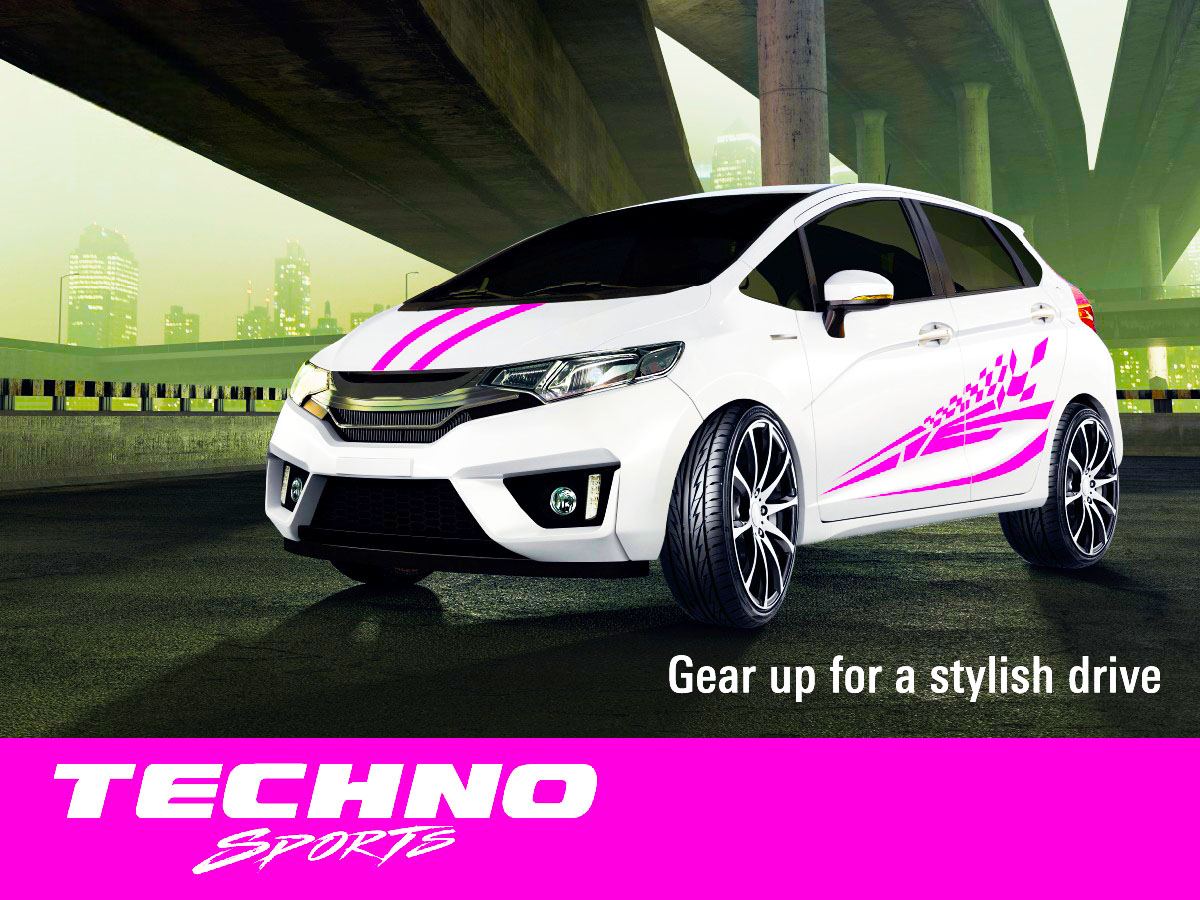
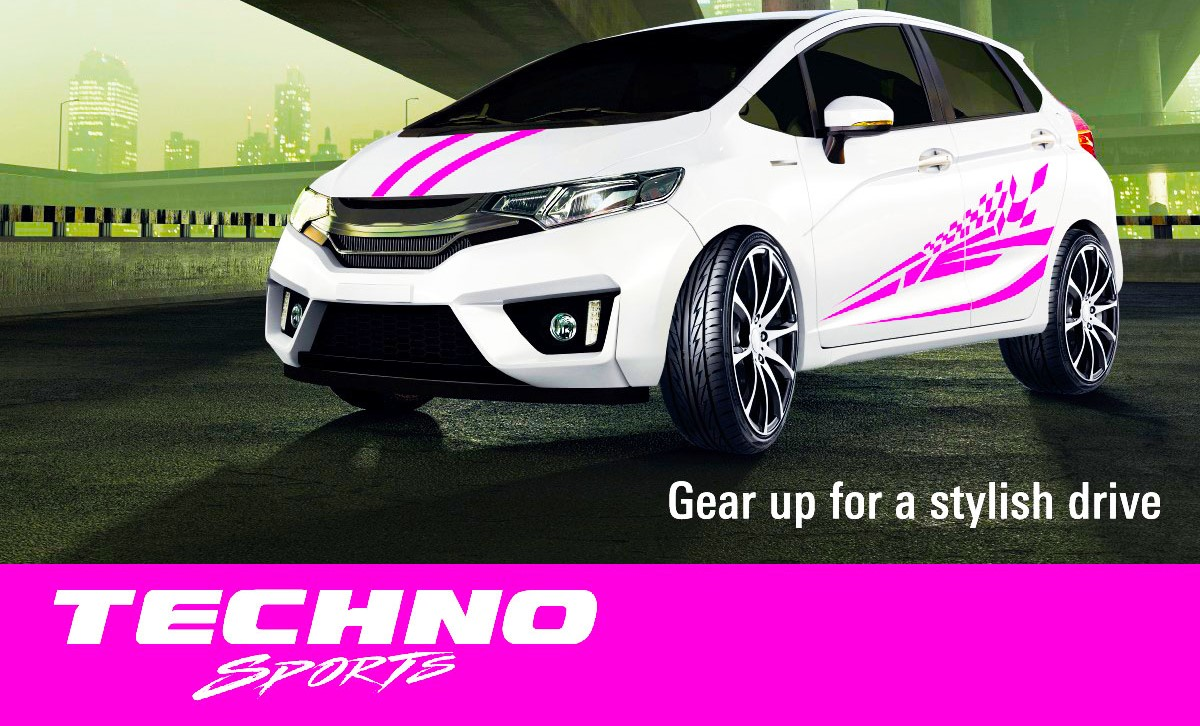
kkk

diff --git a/index.html b/index.html
@@ -211,45 +211,49 @@ padding: 0;
     
     
     <!-- Carousel Start -->
-    <div class="container my-5">
-        <div id="carouselProfessional" class="carousel slide carousel-fade" data-bs-ride="carousel" style="margin-left: -5%; margin-right: -7.9%; height: 100%; margin-top: -7%;">
+    <div class="container-fluid p-0 my-2">
+      <div id="carouselProfessional" class="carousel slide carousel-fade" data-bs-ride="carousel">
           <!-- Slides -->
           <div class="carousel-inner">
-            <!-- Slide 1 -->
-            <div class="carousel-item active">
-              <img src="img/1.jpeg" class="d-block w-100" alt="Slide 1">
-            </div>
-      
-            <!-- Slide 2 -->
-            <div class="carousel-item">
-              <img src="img/2.jpg" class="d-block w-100" alt="Slide 2">
-            </div>
-      
-            <!-- Slide 3 -->
-            <div class="carousel-item">
-              <img src="img/3.jpg" class="d-block w-100" alt="Slide 3">
-            </div>
-            <div class="carousel-item">
-                <img src="img/4.jpeg" class="d-block w-100" alt="Slide 3">
+              <!-- Slide 1 -->
+              <div class="carousel-item active">
+                  <img src="img/1.jpeg" class="d-block w-100" alt="Slide 1">
               </div>
-            <!-- Additional Slides -->
-            <div class="carousel-item">
-              <img src="img/5.jpg" class="d-block w-100" alt="Slide 4">
-            </div>
-           
+  
+              <!-- Slide 2 -->
+              <div class="carousel-item">
+                  <img src="img/2.jpg" class="d-block w-100" alt="Slide 2">
+              </div>
+  
+              <!-- Slide 3 -->
+              <div class="carousel-item">
+                  <img src="img/3.jpg" class="d-block w-100" alt="Slide 3">
+              </div>
+  
+              <!-- Slide 4 -->
+              <div class="carousel-item">
+                  <img src="img/4.jpeg" class="d-block w-100" alt="Slide 4">
+              </div>
+  
+              <!-- Slide 5 -->
+              <div class="carousel-item">
+                  <img src="img/5.jpg" class="d-block w-100" alt="Slide 5">
+              </div>
           </div>
-      
+  
           <!-- Controls -->
           <button class="carousel-control-prev" type="button" data-bs-target="#carouselProfessional" data-bs-slide="prev">
-            <span class="carousel-control-prev-icon" aria-hidden="true"></span>
-            <span class="visually-hidden">Previous</span>
+              <span class="carousel-control-prev-icon" aria-hidden="true"></span>
+              <span class="visually-hidden">Previous</span>
           </button>
           <button class="carousel-control-next" type="button" data-bs-target="#carouselProfessional" data-bs-slide="next">
-            <span class="carousel-control-next-icon" aria-hidden="true"></span>
-            <span class="visually-hidden">Next</span>
+              <span class="carousel-control-next-icon" aria-hidden="true"></span>
+              <span class="visually-hidden">Next</span>
           </button>
-        </div>
       </div>
+  </div>
+  
+  
       
       
       
@@ -397,7 +401,7 @@ padding: 0;
                       <p class="mb-2"><i class="fa fa-map-marker-alt me-3"></i>79-C, PHASE II EXTENSION DHA, <br> 
                       KARACHI-75500, PAKISTAN</p>
                       <p class="mb-2"><i class="fa fa-phone-alt me-3"></i>+92-21-35804646 TO 51</p>
-                      <p class="mb-2"><i class="fa fa-fax me-2" ></i>Fax: +92 (21) 35803131 </p>
+                      <p class="mb-2"><i class="fa fa-fax me-2" ></i> +92 (21) 35803131 </p>
                       <p class="mb-2" style="white-space: nowrap;"><i class="fa fa-envelope me-3"></i>sales@bridgestone.net.pk</p>
                   </div>
               </div>

diff --git a/css/style.css b/css/style.css
@@ -51,9 +51,61 @@
   }
   
   /* Responsive Adjustments */
+/* General styles for the container and image */
+
+
+.container .text-center img {
+    width: 25rem; /* Default width */
+    margin-top: -90px; /* Default margin */
+}
+
+/* Media query for small screens (e.g., mobile devices) */
+@media (max-width: 576px) {
+    .container .text-center img {
+        width: 15rem; /* Smaller width for mobile */
+        margin-top: -50px; /* Reduce negative margin */
+        float: left;
+        margin-left: -50px
+    }
+}
+
+/* Media query for medium screens (e.g., tablets) */
+@media (min-width: 577px) and (max-width: 768px) {
+    .container .text-center img {
+        width: 20rem; /* Adjust width for tablets */
+        margin-top: -70px; /* Adjust negative margin */
+        float: left;
+        margin-left: -50px
+    }
+}
+
+/* Media query for large screens (e.g., laptops) */
+@media (min-width: 769px) and (max-width: 1200px) {
+    .container .text-center img {
+        width: 23rem; /* Slightly smaller width for laptops */
+        margin-top: -80px; /* Adjust negative margin */
+     
+    }
+}
+
+/* Media query for extra-large screens (e.g., LCD monitors) */
+@media (min-width: 1201px) {
+    .container .text-center img {
+        width: 30rem; /* Larger width for big screens */
+        margin-top: -100px; /* Increase negative margin */
+      
+    }
+}
 
   
-  
+  @media (min-width: 1200px) {
+    #carouselProfessional {
+        margin-left: 0;
+        margin-right: 0;
+        margin-top: 0;
+    }
+}
+
 
 .fw-medium {
     font-weight: 600 !important;
